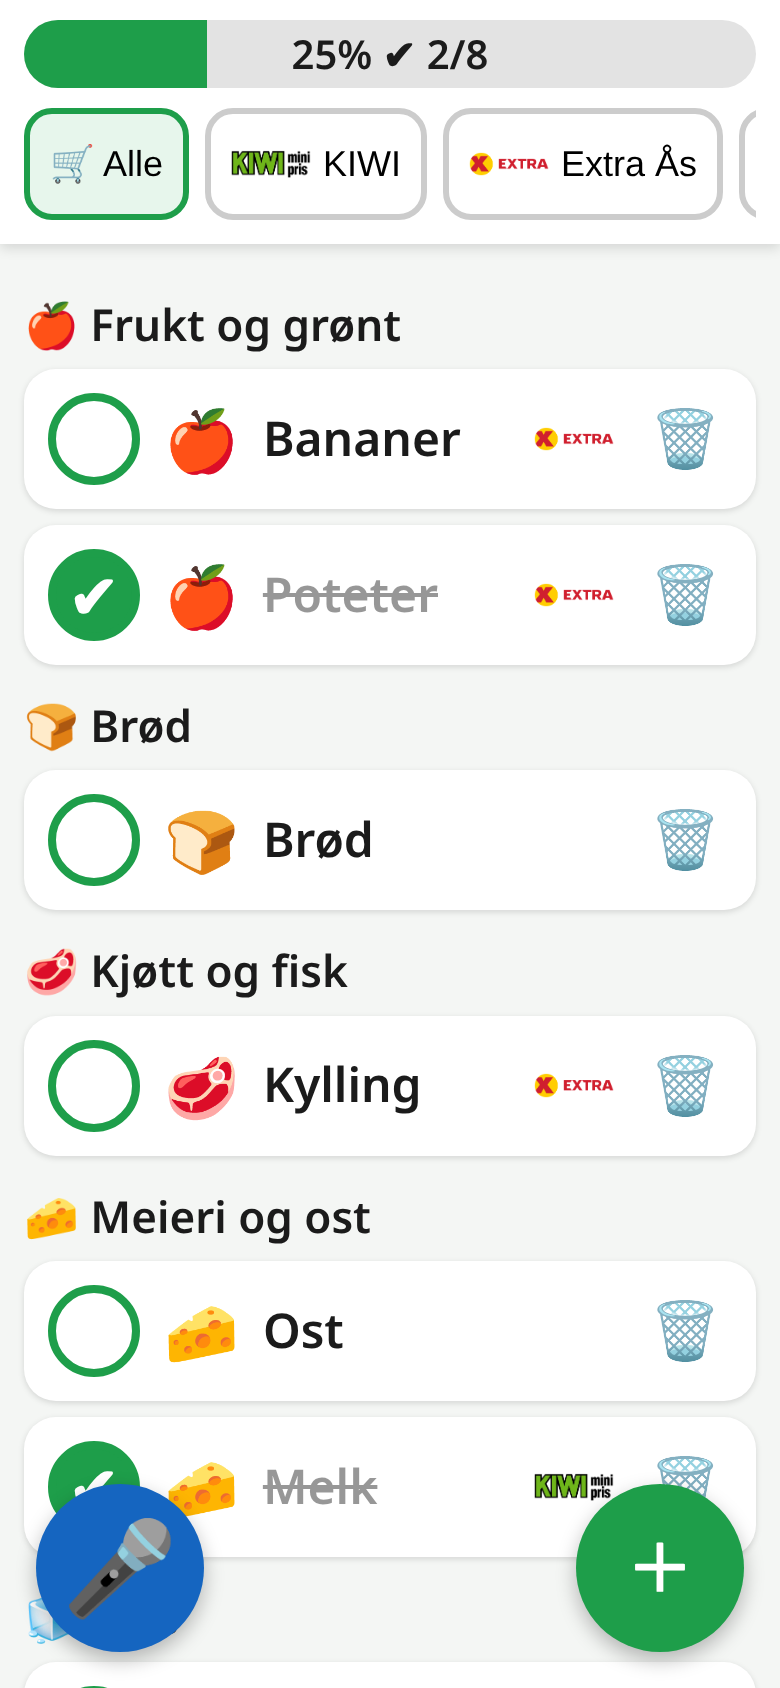
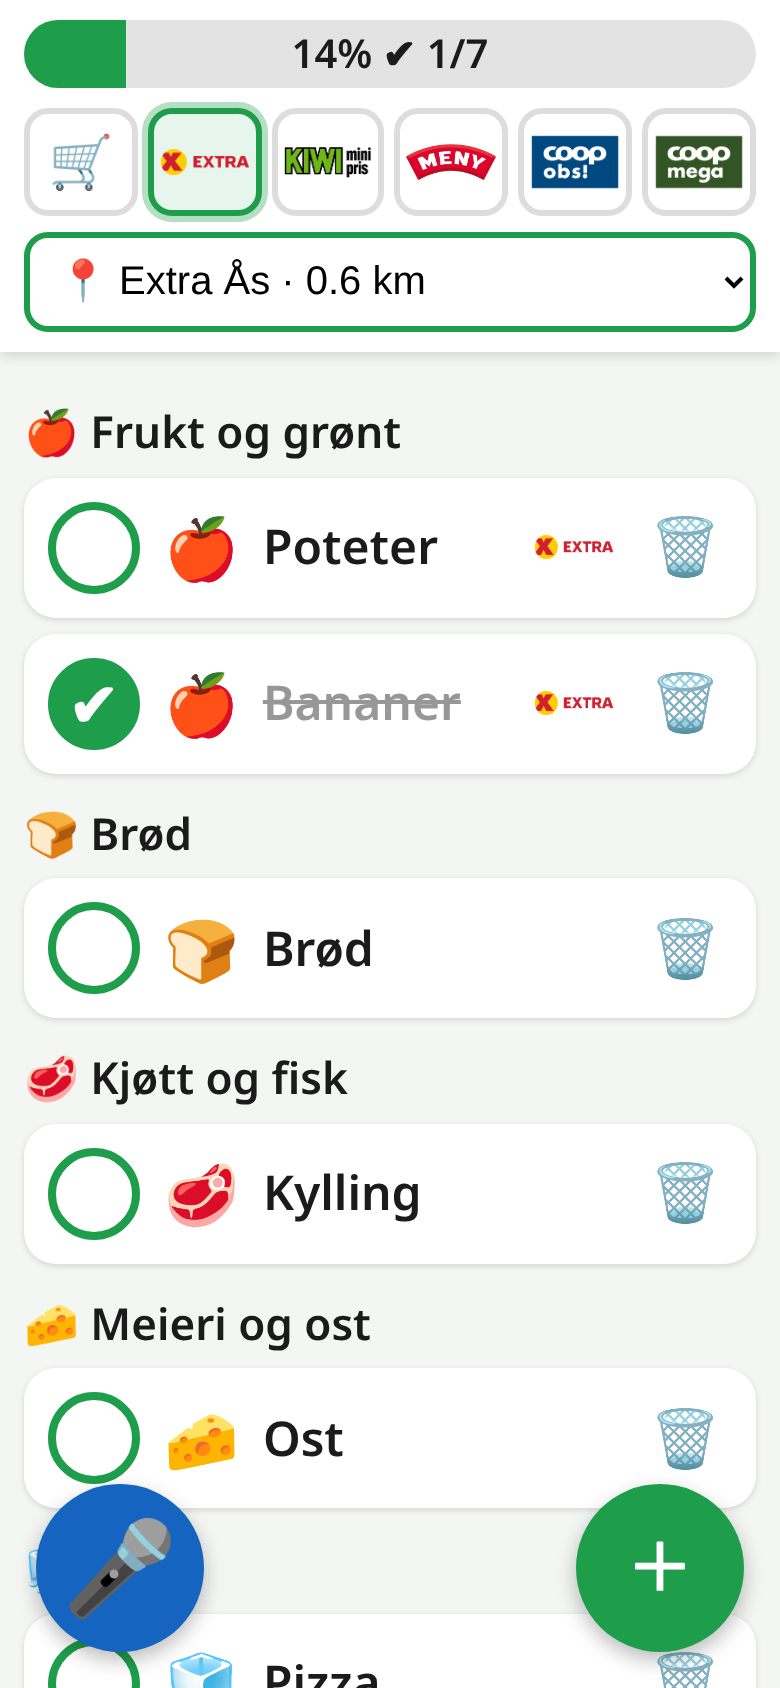
One add button, smart paste split, checkboxes, fixed aisle sort

diff --git a/app.js b/app.js
@@ -1,17 +1,27 @@
 const CH={'coop-extra':'Extra','kiwi':'KIWI','meny':'Meny','coop-obs':'Obs','coop-mega':'Mega'};
-const CATS=[['frukt','🍎','Frukt og grønt',['eple','epler','banan','bananer','appelsin','sitron','pære','druer','jordbær','bringebær','blåbær','tomat','tomater','agurk','salat','paprika','løk','hvitløk','potet','poteter','gulrot','gulrøtter','brokkoli','blomkål','kål','avokado','sopp','mais','fruit','apple','apples','banana','bananas','orange','lemon','pear','grapes','strawberries','tomato','tomatoes','cucumber','lettuce','pepper','onion','onions','garlic','potato','potatoes','carrot','carrots','broccoli','mushrooms','avocado','grønnsaker','vegetables','frukt']],
-['brod','🍞','Brød',['brød','grovbrød','loff','rundstykker','knekkebrød','lomper','tortilla','lefse','boller','bread','rolls','baguette','crispbread','wraps','bagels']],
-['kjott','🥩','Kjøtt og fisk',['kjøtt','kjøttdeig','kylling','kyllingfilet','svin','bacon','pølse','pølser','skinke','biff','lam','laks','torsk','fisk','fiskekaker','reker','makrell','tunfisk','meat','mince','chicken','pork','sausage','sausages','ham','beef','steak','salmon','cod','fish','prawns','shrimp','tuna','pålegg']],
-['meieri','🧀','Meieri og ost',['melk','lettmelk','helmelk','fløte','rømme','smør','margarin','ost','brunost','yoghurt','yogurt','egg','kesam','cottage','milk','cream','butter','cheese','eggs','creme']],
-['torr','🍝','Tørrvarer',['pasta','spagetti','spaghetti','ris','mel','hvetemel','sukker','salt','havregryn','müsli','musli','frokostblanding','cornflakes','kaffe','te','kakao','nøtter','hermetikk','bønner','ketchup','majones','sennep','olje','krydder','sjokolade','godteri','chips','taco','syltetøy','honning','rice','flour','sugar','oats','cereal','coffee','tea','nuts','beans','oil','spices','chocolate','sweets','candy','jam','honey','soup','suppe']],
-['frys','🧊','Frys',['is','iskrem','pizza','frossen','frosne','fryse','pommes','frites','ice','icecream','frozen','fries','peas','erter']],
-['drikke','🥤','Drikke',['juice','jus','saft','brus','cola','vann','øl','farris','solo','pepsi','drink','drinks','water','beer','soda','squash','smoothie']],
-['hus','🧻','Hus og hjem',['dopapir','toalettpapir','tørkepapir','papir','såpe','oppvask','oppvaskmiddel','vaskemiddel','tannkrem','sjampo','bleier','batterier','poser','folie','toilet','paper','soap','detergent','toothpaste','shampoo','nappies','diapers','batteries','bags','foil','kitchen roll']],
-['annet','🛒','Annet',[]]];
+const CATS=[["frukt", "🍎", "Frukt og grønt", ["frukt", "fruit", "grønt", "grønnsak", "grønnsaker", "vegetable", "vegetables", "veg", "eple", "epler", "apple", "apples", "banan", "bananer", "banana", "bananas", "appelsin", "appelsiner", "orange", "oranges", "klementin", "klementiner", "clementine", "mandarin", "sitron", "sitroner", "lemon", "lemons", "lime", "pære", "pærer", "pear", "pears", "drue", "druer", "grape", "grapes", "jordbær", "strawberry", "strawberries", "bringebær", "raspberry", "raspberries", "blåbær", "blueberry", "blueberries", "kiwi", "mango", "ananas", "pineapple", "melon", "vannmelon", "watermelon", "fersken", "peach", "plomme", "plum", "nektarin", "avokado", "avocado", "tomat", "tomater", "tomato", "tomatoes", "cherrytomat", "agurk", "agurker", "cucumber", "salat", "lettuce", "isberg", "ruccola", "rocket", "spinat", "spinach", "paprika", "pepper", "peppers", "chili", "løk", "onion", "onions", "rødløk", "vårløk", "purre", "leek", "hvitløk", "garlic", "potet", "poteter", "potato", "potatoes", "gulrot", "gulrøtter", "carrot", "carrots", "brokkoli", "broccoli", "blomkål", "cauliflower", "kål", "cabbage", "rosenkål", "sopp", "mushroom", "mushrooms", "champignon", "mais", "corn", "squash", "zucchini", "aubergine", "selleri", "celery", "rødbete", "beet", "ingefær", "ginger", "urter", "persille", "parsley", "basilikum", "basil", "koriander", "dill", "gressløk", "bama"]], ["brod", "🍞", "Brød", ["brød", "bread", "grovbrød", "loff", "rundstykke", "rundstykker", "roll", "rolls", "knekkebrød", "crispbread", "wasa", "lomper", "lompe", "tortilla", "tortillas", "lefse", "lefser", "bolle", "boller", "bun", "buns", "baguette", "ciabatta", "wraps", "wrap", "bagel", "bagels", "pita", "naan", "croissant", "croissanter", "rugbrød", "toast", "toastbrød", "kneipp"]], ["kjott", "🥩", "Kjøtt og fisk", ["kjøtt", "meat", "kjøttdeig", "karbonadedeig", "mince", "kylling", "chicken", "kyllingfilet", "kyllinglår", "kalkun", "turkey", "svin", "pork", "svinekotelett", "ribbe", "bacon", "pølse", "pølser", "sausage", "sausages", "wiener", "grillpølse", "skinke", "ham", "kokt", "salami", "pålegg", "biff", "beef", "steak", "entrecote", "indrefilet", "lam", "lamb", "fårikål", "kjøttkaker", "kjøttboller", "meatballs", "laks", "salmon", "torsk", "cod", "fisk", "fish", "fiskekaker", "fiskepinner", "fiskeboller", "sei", "hyse", "ørret", "reker", "shrimp", "prawns", "scampi", "makrell", "mackerel", "tunfisk", "tuna", "sild", "herring", "kaviar", "mills_kaviar", "gilde", "prior", "nortura", "stabburet", "leverpostei", "postei"]], ["meieri", "🧀", "Meieri og ost", ["melk", "milk", "lettmelk", "helmelk", "skummet", "skummetmelk", "ekstralett", "laktosefri", "fløte", "cream", "kremfløte", "matfløte", "rømme", "lettrømme", "crème", "creme", "fraiche", "smør", "butter", "margarin", "bremykt", "brelett", "ost", "cheese", "brunost", "geitost", "gulost", "norvegia", "jarlsberg", "cheddar", "mozzarella", "parmesan", "feta", "kremost", "philadelphia", "cottage", "yoghurt", "yogurt", "yoghurts", "skyr", "kesam", "egg", "eggs", "tine", "q", "synnøve", "kulturmelk", "biola", "cultura"]], ["torr", "🍝", "Tørrvarer", ["pasta", "spagetti", "spaghetti", "makaroni", "penne", "nudler", "noodles", "ris", "rice", "mel", "flour", "hvetemel", "sukker", "sugar", "salt", "pepper", "havregryn", "oats", "gryn", "müsli", "musli", "granola", "frokostblanding", "cereal", "cornflakes", "kaffe", "coffee", "te", "tea", "kakao", "cocoa", "nøtter", "nuts", "mandler", "hermetikk", "boks", "bønner", "beans", "kikerter", "linser", "ketchup", "majones", "mayo", "mayonnaise", "sennep", "mustard", "olje", "oil", "olivenolje", "krydder", "spices", "buljong", "taco", "tacokrydder", "tacoskjell", "saus", "sauce", "pesto", "syltetøy", "jam", "honning", "honey", "peanøttsmør", "nugatti", "sjokolade", "chocolate", "godteri", "sweets", "candy", "snacks", "chips", "potetgull", "kjeks", "biscuits", "cookies", "kaker", "cake", "suppe", "soup", "gjær", "yeast", "bakepulver", "vaniljesukker", "rosiner", "freia", "nidar", "idun", "toro", "mills", "regal", "kavli"]], ["frys", "🧊", "Frys", ["is", "iskrem", "ice", "icecream", "frossen", "frosne", "frozen", "fryse", "frys", "pizza", "grandiosa", "pommes", "frites", "fries", "erter", "peas", "wok", "fiskegrateng", "isbiter"]], ["drikke", "🥤", "Drikke", ["juice", "jus", "appelsinjuice", "eplejuice", "saft", "brus", "cola", "coca", "pepsi", "solo", "fanta", "sprite", "urge", "vann", "water", "farris", "imsdal", "mineralvann", "øl", "beer", "cider", "vin", "wine", "drink", "drinks", "soda", "squash", "smoothie", "tropicana", "sprudlevann"]], ["hus", "🧻", "Hus og hjem", ["dopapir", "toalettpapir", "toalett", "tørkepapir", "kjøkkenrull", "papir", "såpe", "soap", "håndsåpe", "oppvask", "oppvaskmiddel", "oppvasktabletter", "vaskemiddel", "detergent", "tøymykner", "tannkrem", "toothpaste", "tannbørste", "sjampo", "shampoo", "balsam", "dusjsåpe", "deodorant", "bleier", "nappies", "diapers", "våtservietter", "batteri", "batterier", "batteries", "poser", "bags", "søppelposer", "plastposer", "folie", "foil", "bakepapir", "plastfolie", "lyspærer", "stearinlys", "lys", "zalo", "omo", "lano", "lotus", "klut", "svamp"]], ["annet", "🛒", "Annet", []]];
+const PHRASES={'hvit løk':'frukt','rød løk':'frukt','cherry tomater':'frukt','cherry tomat':'frukt','spring onion':'frukt','sweet potato':'frukt','søt potet':'frukt','kokt skinke':'kjott','røkt laks':'kjott','hel kylling':'kjott','kylling filet':'kjott','toalett papir':'hus','kjøkken papir':'hus','kitchen roll':'hus','toilet paper':'hus','toilet roll':'hus','washing up liquid':'hus','ice cream':'frys','frosne erter':'frys','peanut butter':'torr','olive oil':'torr','oliven olje':'torr','crème fraiche':'meieri','creme fraiche':'meieri','sour cream':'meieri','cream cheese':'meieri','cottage cheese':'meieri','orange juice':'drikke','apple juice':'drikke','eple juice':'drikke','appelsin juice':'drikke','coca cola':'drikke','tine melk':'meieri','q melk':'meieri','big one':'frys','hennig olsen':'frys','pepsi max':'drikke'};
+const PH=Object.keys(PHRASES).sort((a,b)=>b.split(' ').length-a.split(' ').length);
+const QTY=/^(\d+([.,]\d+)?(stk|st|l|dl|cl|ml|kg|g|gr|pk|pakke|pakker|x)?|stk|st|pk|pakke|pakker|l|dl|kg|g|liter|boks|bokser|x)$/i;
+const BRANDS=new Set('tine q synnøve gilde prior freia nidar idun toro mills stabburet kavli lano zalo omo lotus bama coop xtra first price eldorado'.split(' '));
+function split(txt){
+ const out=[];
+ txt.replace(/\r/g,'').split(/\n|,|;|•|·|\s+og\s+|\s+and\s+|\s+&\s+/i).forEach(seg=>{
+  seg=seg.replace(/^\s*(\d+[.)]|[-*–—])\s+/,'').toLowerCase().replace(/[^\p{L}\p{N}.,'\- ]/gu,' ').trim();if(!seg)return;
+  const w=seg.split(/\s+/);let note=[],i=0;
+  while(i<w.length){if(QTY.test(w[i])){note.push(w[i]);i++;continue}
+   let hit=null;for(const p of PH){const pw=p.split(' ');if(w.slice(i,i+pw.length).join(' ')==p){hit=pw.length;break}}
+   let n=hit||1;if(!hit&&BRANDS.has(w[i])&&i+1<w.length&&!QTY.test(w[i+1]))n=2;const name=w.slice(i,i+n).join(' ');i+=n;
+   while(i<w.length&&QTY.test(w[i])&&!(i+1<w.length&&/^\d/.test(w[i])&&!QTY.test(w[i+1])&&false)){ if(/^\d/.test(w[i])&&i+1<w.length&&!QTY.test(w[i+1]))break;note.push(w[i]);i++}
+   out.push({name,note:note.join(' ')});note=[]}
+  if(note.length&&out.length&&!out[out.length-1].note)out[out.length-1].note=note.join(' ')});
+ return out}
+function kwHit(w,k){return w==k||(k.length>=4&&(w.startsWith(k)||w.endsWith(k)))||(w.length>=5&&k.startsWith(w))}
+function cat(n){n=norm(n);if(PHRASES[n])return PHRASES[n];for(const p of PH)if(n.includes(p))return PHRASES[p];
+ const ws=n.split(/\s+/);for(let j=ws.length-1;j>=0;j--)for(const c of CATS)for(const k of c[3])if(kwHit(ws[j],k))return c[0];return'annet'}
 let shops=[],S=JSON.parse(localStorage.hl||'{"items":[],"filter":"all"}');
 const save=()=>localStorage.hl=JSON.stringify(S),$=id=>document.getElementById(id);
 const norm=s=>s.toLowerCase().trim();
-function cat(n){const w=norm(n).split(/\s+/);for(const c of CATS)for(const k of c[3]){if(w.includes(k)||(k.length>3&&norm(n).includes(k)))return c[0]}return 'annet'}
 const icon=n=>CATS.find(c=>c[0]==cat(n))[1];
 function logoOf(t){if(!t)return'';const ch=t.startsWith('shop:')?shops[+t.slice(5)].chain:t.slice(6);return`logos/${ch}.png`}
 function nameOf(t){return t.startsWith('shop:')?shops[+t.slice(5)].name:CH[t.slice(6)]}
@@ -24,13 +34,16 @@ function render(){
  $('chips').innerHTML=`<button class="${S.filter=='all'?'on':''}" data-f="all" aria-label="Alle">🛒</button>`+Object.keys(CH).map(c=>`<button class="${sc==c?'on':''}" data-f="chain:${c}"><img src="logos/${c}.png" alt="${CH[c]}"></button>`).join('');
  const b=$('branch');b.hidden=!sc;
  if(sc){b.innerHTML=`<option value="chain:${sc}">⭐ ${CH[sc]} – alle</option>`+shops.map((s,k)=>[s,k]).filter(([s])=>s.chain==sc).sort((x,y)=>x[0].approx_km_from_as-y[0].approx_km_from_as).map(([s,k])=>`<option value="shop:${k}">📍 ${s.name} · ${s.approx_km_from_as} km</option>`).join('');b.value=S.filter}
- let h='';for(const c of CATS){const its=vis.filter(i=>cat(i.name)==c[0]).sort((a,b)=>a.done-b.done);if(!its.length)continue;
-  h+=`<div class="cat">${c[1]} ${c[2]}</div>`+its.map(i=>`<div class="item ${i.done?'done':''}" data-id="${i.id}"><div class="tick">${i.done?'✔':''}</div><span style="font-size:30px">${icon(i.name)}</span><span class="name">${esc(i.name)}</span>${i.tag?`<img src="${logoOf(i.tag)}" alt="${nameOf(i.tag)}">`:''}<button class="del" data-del="${i.id}" aria-label="Slett">🗑</button></div>`).join('')}
- $('list').innerHTML=h||'<div class="empty">🛒<br>＋</div>';}
+ const row=i=>`<div class="item ${i.done?'done':''}" data-id="${i.id}"><div class="tick" role="checkbox" aria-checked="${i.done}">${i.done?'✔':''}</div><span style="font-size:30px">${icon(i.name)}</span><span class="name">${esc(i.name)}${i.note?` <small>${esc(i.note)}</small>`:''}</span>${i.tag?`<img src="${logoOf(i.tag)}" alt="${nameOf(i.tag)}">`:''}<button class="del" data-del="${i.id}" aria-label="Slett">🗑</button></div>`;
+ let h='';for(const c of CATS){const its=vis.filter(i=>!i.done&&cat(i.name)==c[0]);if(its.length)h+=`<div class="cat">${c[1]} ${c[2]}</div>`+its.map(row).join('')}
+ const dn=vis.filter(i=>i.done);if(dn.length)h+=`<div class="cat">✔ ${dn.length}</div>`+dn.map(row).join('');
+ $('list').innerHTML=h||'<div class="empty">🛒</div>';}
 function selChain(){if(S.filter=='all'||!shops.length)return null;return S.filter.startsWith('shop:')?shops[+S.filter.slice(5)].chain:S.filter.slice(6)}
 $('branch').onchange=e=>{S.filter=e.target.value;save();render()};
 const esc=s=>s.replace(/[&<>"]/g,c=>({'&':'&amp;','<':'&lt;','>':'&gt;','"':'&quot;'})[c]);
-function add(name,tag){name=name.trim();if(!name)return;name=name[0].toUpperCase()+name.slice(1);S.items.push({id:Date.now()+Math.random(),name,tag:tag||null,done:false});save();render()}
+function add(name,tag,note){name=name.trim();if(!name)return 0;const ex=S.items.find(i=>norm(i.name)==norm(name));if(ex){if(ex.done){ex.done=false;save();render()}return 0}
+ name=name[0].toUpperCase()+name.slice(1);S.items.push({id:Date.now()+Math.random(),name,tag:tag||null,note:note||'',done:false});save();render();return 1}
+function addText(t,tag){let n=0;split(t).forEach(x=>n+=add(x.name,tag,x.note));return n}
 function find(n){n=norm(n);return S.items.find(i=>!i.done&&(norm(i.name)==n||norm(i.name).includes(n)||n.includes(norm(i.name))))}
 $('chips').onclick=e=>{const b=e.target.closest('[data-f]');if(b){S.filter=b.dataset.f;save();render()}};
 $('list').onclick=e=>{const d=e.target.closest('[data-del]');if(d){S.items=S.items.filter(i=>i.id!=d.dataset.del);save();return render()}
@@ -38,7 +51,7 @@ $('list').onclick=e=>{const d=e.target.closest('[data-del]');if(d){S.items=S.ite
 // add sheet: text + mic only; shop = current selection
 const curTag=()=>S.filter=='all'?null:S.filter;
 $('plus').onclick=()=>{$('txt').value='';const t=curTag();$('addto').innerHTML=t?`➜ <img src="${logoOf(t)}" alt=""> ${nameOf(t)}`:'';$('add').hidden=false;$('txt').focus()};
-$('addf').onsubmit=e=>{e.preventDefault();$('txt').value.split(/,| og | and /).forEach(n=>add(n,curTag()));$('add').hidden=true;$('txt').blur()};
+$('addf').onsubmit=e=>{e.preventDefault();const n=addText($('txt').value,curTag());toast('＋ '+n);$('add').hidden=true;$('txt').blur()};
 $('cancel').onclick=()=>{$('add').hidden=true};
 $('add').onclick=e=>{if(e.target.id=='add')$('add').hidden=true};
 // voice
@@ -55,12 +68,6 @@ function handle(t,lang){t=norm(t).replace(/[.!?]/g,'');let m;const nb=lang.start
  if(/igjen|mangler|what'?s left|left|remaining/.test(t))return say(left(lang),lang);
  say(nb?'Si: legg til melk, eller: har melk':'Say: add milk, or: I\'ve got milk',lang)}
 const SR=window.SpeechRecognition||window.webkitSpeechRecognition;
-$('mic').onclick=()=>{if(!SR)return say('Mikrofon virker ikke i denne nettleseren. Prøv Chrome eller Safari.','nb-NO');
- const run=lang=>{const r=new SR();r.lang=lang;r.interimResults=false;r.maxAlternatives=1;$('mic').classList.add('live');
-  r.onresult=e=>{const t=e.results[0][0].transcript;toast('🎤 '+t);const en=/^(add|put|buy|i've|i have|i got|got|what)/i.test(t);handle(t,en?'en-GB':lang)};
-  r.onerror=e=>{$('mic').classList.remove('live');if(e.error=='language-not-supported'&&lang=='nb-NO')run('en-GB');else toast('🎤 ✖')};
-  r.onend=()=>$('mic').classList.remove('live');try{r.start()}catch(x){if(lang=='nb-NO')run('en-GB')}};run('nb-NO')};
-if(location.hash=='#demo'&&!S.items.length){[['Melk','chain:kiwi',1],['Poteter','shop:0',1],['Bananer','shop:0',0],['Brød',null,0],['Kylling','chain:coop-extra',0],['Ost',null,0],['Pizza',null,0],['Dopapir',null,0]].forEach(([n,t,d],k)=>S.items.push({id:k+1,name:n,tag:t,done:!!d}))}
 $('smic').onclick=()=>{if(!SR)return toast('🎤 ✖');const go=lang=>{const r=new SR();r.lang=lang;$('smic').classList.add('live');
  r.onresult=e=>{const t=e.results[0][0].transcript.replace(/^(legg til|add)\s+/i,'');$('txt').value=($('txt').value?$('txt').value+', ':'')+t};
  r.onerror=e=>{$('smic').classList.remove('live');if(e.error=='language-not-supported'&&lang=='nb-NO')go('en-GB')};r.onend=()=>$('smic').classList.remove('live');try{r.start()}catch(x){}};go('nb-NO')};

diff --git a/index.html b/index.html
@@ -19,15 +19,15 @@ header{position:sticky;top:0;background:#fff;padding:10px 12px;box-shadow:0 2px 
 main{padding:10px 12px 140px}
 .cat{margin:16px 0 6px;font-size:22px}
 .item{display:flex;align-items:center;gap:12px;background:#fff;border-radius:16px;padding:12px;margin:8px 0;min-height:68px;box-shadow:0 1px 3px #0002}
-.tick{width:46px;height:46px;border-radius:50%;border:4px solid #1e9e4a;flex:none;display:flex;align-items:center;justify-content:center;font-size:30px;color:#fff}
+.tick{width:46px;height:46px;border-radius:10px;border:4px solid #1e9e4a;flex:none;display:flex;align-items:center;justify-content:center;font-size:30px;color:#fff}
 .done .tick{background:#1e9e4a}.done .name{text-decoration:line-through;opacity:.45}
-.name{flex:1;font-size:24px}.item img{height:40px;width:40px;object-fit:contain}
+.name{flex:1;font-size:24px}.name small{font-size:16px;color:#666;font-weight:500}.item img{height:40px;width:40px;object-fit:contain}
 .del{border:0;background:none;font-size:28px;padding:6px}
 .fab{position:fixed;bottom:18px;width:84px;height:84px;border-radius:50%;border:0;font-size:46px;color:#fff;box-shadow:0 4px 10px #0004}
-#plus{right:18px;background:#1e9e4a}#mic{left:18px;background:#1565c0}#mic.live{background:#d32f2f;animation:p 1s infinite}
+#plus{position:fixed;left:50%;bottom:20px;transform:translateX(-50%);border:0;border-radius:40px;background:#1e9e4a;color:#fff;font:700 20px system-ui;padding:12px 26px 12px 14px;display:flex;align-items:center;gap:10px;box-shadow:0 4px 12px #0005;white-space:nowrap;z-index:6}#plus span{font-size:44px;line-height:1;background:#fff3;border-radius:50%;width:56px;height:56px;display:flex;align-items:center;justify-content:center}.empty~#plus{}
 @keyframes p{50%{transform:scale(1.1)}}
 .sheet{position:fixed;inset:0;background:#0007;z-index:20;overflow-y:auto;padding:12px}.sheet[hidden]{display:none}.sheet form{background:#fff;border-radius:20px;max-width:520px;margin:0 auto;padding:16px}
-.sheet input{width:100%;font-size:28px;padding:14px;border:3px solid #1e9e4a;border-radius:14px}
+.sheet textarea{width:100%;font-size:28px;padding:14px;border:3px solid #1e9e4a;border-radius:14px}
 .tiles{display:grid;grid-template-columns:repeat(3,1fr);gap:10px;margin:12px 0}
 .tile{border:3px solid #ddd;border-radius:16px;background:#fff;padding:8px;aspect-ratio:1;display:flex;align-items:center;justify-content:center}
 .tile.on{border-color:#1e9e4a;background:#e7f6ec}.tile img{max-width:100%;max-height:100%}
@@ -40,9 +40,9 @@ main{padding:10px 12px 140px}
 </style></head><body>
 <header><div class="bar"><div class="fill" id="fill"></div><div class="pct" id="pct"></div></div><div class="logos" id="chips"></div><select id="branch" hidden aria-label="Butikk"></select></header>
 <main id="list"></main>
-<button class="fab" id="mic" aria-label="Snakk">🎤</button><button class="fab" id="plus" aria-label="Legg til">＋</button>
+<button id="plus"><span>＋</span>Lim inn / legg til handleliste</button>
 <div id="toast"></div>
-<div id="add" class="sheet" hidden><form id="addf" action="#"><input id="txt" placeholder="🥛 ..." autocomplete="off">
+<div id="add" class="sheet" hidden><form id="addf" action="#"><textarea id="txt" rows="4" placeholder="melk, egg, brød …"></textarea>
 <div class="addto" id="addto"></div><button type="button" class="big blue" id="smic">🎤</button>
 <button class="big" type="submit" id="ok">✔</button><button class="big ghost" type="button" id="cancel">✖</button></form></div>
-<script src="app.js?v=3"></script></body></html>
+<script src="app.js?v=4"></script></body></html>

diff --git a/sw.js b/sw.js
@@ -1,5 +1,5 @@
 // v2: network-first for everything, cache only as offline fallback
-const C='hl-v3';
+const C='hl-v4';
 self.addEventListener('install',()=>self.skipWaiting());
 self.addEventListener('activate',e=>e.waitUntil(caches.keys().then(k=>Promise.all(k.filter(x=>x!=C).map(x=>caches.delete(x)))).then(()=>self.clients.claim())));
 self.addEventListener('fetch',e=>{if(e.request.method!='GET')return;
